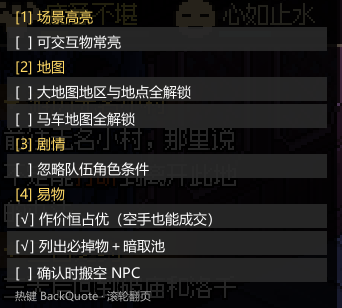
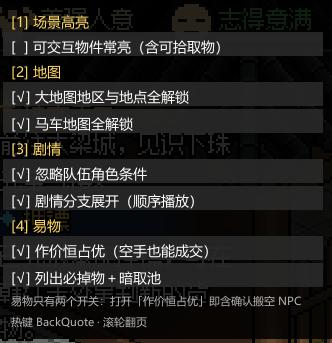
1.11.5~1.11.10：易物开关合并 + 面板表述 + 称号功能回退 + 固定名单 + 清理
- 1.11.5：易物「确认搬空」不再是独立开关，跟随「作价恒占优」
- 1.11.6/1.11.7：试做「称号·姓名」，两版均失败（显示层不读 getter；普通 NPC 会重复拼）
- 1.11.8：称号功能整体回退，名字恢复「姓+名」
- 1.11.9/1.11.10：固定名单加 R20004-6（伙伴的故事／包打听离队），Fame-6 加后撤销
- 清理：去掉逐次判定/取名的诊断日志（保留 lifecycle 日志与 StoryDiagnostics 开关）
- docs/screenshot.png 换成当前面板截图
- README：更新面板/开关说明、固定名单小节、回退记录、剧情展开通用规则

diff --git a/WulinTweaks/Plugin.cs b/WulinTweaks/Plugin.cs
@@ -12,7 +12,7 @@ namespace WulinTweaks
     public class Plugin : BasePlugin
     {
         public const string Guid = "wulin.tweaks";
-        public const string Version = "1.11.4";  // 1.11.4 易物池子副本改「合并进同类堆 + 数量记账」（不再跳过同类），搬空后自动并堆
+        public const string Version = "1.11.10";  // 1.11.10 固定名单只保留 R20004-6（Fame-6 撤销）；清掉逐次判定/取名的诊断日志
 
         internal static ManualLogSource L;
         internal static Plugin Inst;
@@ -33,10 +33,10 @@ namespace WulinTweaks
         internal static ConfigEntry<string> StoryBlacklist;
 
         // ④ 易物
-        // 全部默认关闭；面板上改动会立即写进 cfg，下次启动沿用上次状态
+        // 默认全关；面板上改动会立即写进 cfg，下次启动沿用上次状态。
+        // 「确认搬空」不是独立开关：它跟随 TradeAlwaysWin（作价恒占优）—— 打开后成交即搬空。
         internal static ConfigEntry<bool> TradeAlwaysWin;
         internal static ConfigEntry<bool> TradePools;
-        internal static ConfigEntry<bool> TradeTakeAll;
 
         // UI
         internal static ConfigEntry<string> UiToggleKey;
@@ -88,15 +88,15 @@ FlattenBlacklist = Config.Bind("3_Story", "FlattenBlacklist", "",
                 + "R10028-7=一醉方休，R10025-6=杯中明镜，R10112-2=烈酒与故事（需要时自行加上）");
 
             TradeAlwaysWin = Config.Bind("4_Trade", "AlwaysWin", false,
-                "易物时玩家方作价永远 >= NPC 方，NPC 一律接受；"
-                + "同时让玩家交易区为空也能确认成交");
+                "易物「通吃」总开关：玩家方作价永远 >= NPC 方，NPC 一律接受；"
+                + "玩家交易区为空也能确认成交；"
+                + "并且点确认成交后，把交易区残留和 NPC 背包剩下的东西一起塞进队伍背包 —— "
+                + "NPC 的东西全拿走，玩家不用付出任何东西。"
+                + "（1.11.5 起「确认搬空」跟随本开关，不再单独提供）");
             TradePools = Config.Bind("4_Trade", "Pools", false,
                 "易物 NPC 侧同时列出「击杀必掉物」与「暗取池」的内容。"
                 + "只往 NPC 背包放一份仅供显示的副本，两个池子本身一个字节都不动 —— "
                 + "不会改变暗取能偷到什么，也不会改变打死掉什么");
-            TradeTakeAll = Config.Bind("4_Trade", "TakeAllOnConfirm", false,
-                "点确认成交后，把交易区残留和 NPC 背包剩下的东西一起塞进队伍背包 —— "
-                + "NPC 的东西全拿走，玩家不用付出任何东西");
 
             UiToggleKey = Config.Bind("0_UI", "ToggleKey", "BackQuote",
                 "打开/关闭面板的热键（Unity KeyCode 名称：BackQuote=` / F9 / Insert / Home …）");

diff --git a/WulinTweaks/ModUi.cs b/WulinTweaks/ModUi.cs
@@ -126,7 +126,7 @@ namespace WulinTweaks
             fitter.verticalFit = ContentSizeFitter.FitMode.PreferredSize;
 
             Header("[1] 场景高亮");
-            Row("可交互物常亮", () => Plugin.AlwaysHighlight.Value, v =>
+            Row("可交互物件常亮（含可拾取物）", () => Plugin.AlwaysHighlight.Value, v =>
             {
                 Plugin.AlwaysHighlight.Value = v;
                 if (v) ModKit.ForceHighlightNow();
@@ -158,9 +158,8 @@ namespace WulinTweaks
                 v => Plugin.TradeAlwaysWin.Value = v);
             Row("列出必掉物＋暗取池", () => Plugin.TradePools.Value,
                 v => Plugin.TradePools.Value = v);
-            Row("确认时搬空 NPC", () => Plugin.TradeTakeAll.Value,
-                v => Plugin.TradeTakeAll.Value = v);
 
+            Footer("易物只有两个开关：打开「作价恒占优」即含确认搬空 NPC");
             Footer("热键 " + Plugin.UiToggleKey.Value + " · 滚轮翻页");
 
             Relayout();

diff --git a/WulinTweaks/TeamRule.cs b/WulinTweaks/TeamRule.cs
@@ -39,6 +39,11 @@ namespace WulinTweaks
             // （10008/10009/10005/10015），按彩蛋规则会被放宽 → 剧情提前播出。
             // 用户要求压回原版：那些角色不在队就不该演。
             "R10112-2",
+            // ---- 2026-10-23 追加（用户点名）----
+            // 伙伴的故事 / 包打听(20004)：图里对花四娘(20025)的「需要伙伴」属于「别的角色」
+            // → 按彩蛋规则必放宽；而图里有 3 个 ChangePartnerNode(state=1, partnerID=20004)
+            // = 把包打听踢出队。放宽后这段在不该播的时候播了（结缘花四娘 + 同队时"包打听离队"）。
+            "R20004-6",
         };
 
         /// <summary>

diff --git a/WulinTweaks/TradeKit.cs b/WulinTweaks/TradeKit.cs
@@ -654,12 +654,13 @@ namespace WulinTweaks
         /// <summary>
         /// ConfirmTrading 之后：把交易区残留 + NPC 背包剩余全部搬进队伍背包。
         /// 玩家交易区的东西也一并退回，等于玩家不付出任何东西。
+        /// 1.11.5 起跟随「作价恒占优」（TradeAlwaysWin），不再是独立开关。
         /// </summary>
         internal static void AfterConfirm()
         {
             try
             {
-                if (!Plugin.TradeTakeAll.Value) { CleanupCopies(); return; }
+                if (!Plugin.TradeAlwaysWin.Value) { CleanupCopies(); return; }
 
                 var inv = TeamInventory();
                 if (!Truthy(inv))

diff --git a/WulinTweaks/NativeTeamHook.cs b/WulinTweaks/NativeTeamHook.cs
@@ -164,15 +164,11 @@ namespace WulinTweaks
                 byte* p = (byte*)self;
                 int pid = *(int*)(p + OFF_PARTNER_ID_PC);
                 bool neg = *(byte*)(p + OFF_PARTNER_NEGATE_PC) != 0;
-                if (_relaxLog++ < 30)
-                    Plugin.L.LogInfo("[name] 放宽候选 pid=" + pid + " neg=" + neg);
                 if (pid <= 0 || neg) return;
                 RelaxName.MarkRelaxed(pid, TeamRule.GraphNameOf(self));
             }
             catch { }
         }
-
-        private static int _relaxLog;
 
     }
 }

diff --git a/WulinTweaks/Patch_RealName.cs b/WulinTweaks/Patch_RealName.cs
@@ -49,11 +49,7 @@ namespace WulinTweaks
                 try { real = inst.RealFullName; }
                 finally { _busy = false; }
 
-                if (!string.IsNullOrWhiteSpace(real))
-                {
-                    if (_logs++ < 20) Plugin.L.LogInfo("[name] uid=" + uid + " 显示熟悉的姓名");
-                    result = real;
-                }
+                if (!string.IsNullOrWhiteSpace(real)) result = real;
             }
             catch (Exception e)
             {

diff --git a/README.md b/README.md
@@ -16,9 +16,9 @@
 | ① | **场景高亮** | 关 | 进入场景时扫描一次，给可交互物体加描边。跳过建筑本体（房子、城墙等只显示轮廓的物件）；地面物品只点亮可拾取的（`TempID > 0`），这一条恒开、不做开关 |
 | ② | **大地图解锁** | 关 | 大地图所有地点默认可见、可直接前往；马车地图图标同样全部放开 |
 | ③ | **剧情条件放宽** | 关 | 触发 Scenario 时忽略「队伍中必须存在某角色」的判定，队伍里没有该角色也能推进剧情。**不会**临时增删队员 |
-| ④ | **剧情分支展开** | 开 | 把「某角色是否在队」的互补分支（Negate=0/1 兄弟对）由 if/else 改成**顺序播放**：先播队内有该角色的那几段，再播队内没有时的兜底，最后汇合。目前只处理 `R10049-2`（大梁城衙门铡刀那段五人讲解）—— 它只改剧情走线，不改变条件判定规则 |
-| ⑤ | **剧情期间显真名** | 跟随③ | 剧情对话期间把出场角色的名字从「陌生名」（如 `@冷峻严肃的中年人`）换成立绘/名册里的**熟悉后姓名**，只作用于当前正在播的那张剧情图；剧情收尾、换图、读档后还原 |
-| ⑥ | **易物通吃** | 关 | 三个独立开关：作价恒占优（含空手也能确认）、易物列出必掉物＋暗取池、确认时搬空 NPC。拿走的池子物品会**同步从池子原件扣掉**，暗取/摸尸不会再拿到同一件 |
+| ④ | **剧情分支展开** | 开 | 把「某角色是否在队」的互补分支（Negate=0/1 兄弟对）由 if/else 改成**顺序播放**：先播队内有该角色的那几段，再播队内没有时的兜底，最后汇合。**通用规则**（1.10.0 起不再限定某张图；跳过嵌套门对 / 无出口 / 两侧都不是单节点剧情的情形）—— 它只改剧情走线，不改变条件判定规则。接管方式是把门的 `HoldNode.CheckCondition` 整门判真（与手机端 v87 对齐） |
+| ⑤ | **剧情期间显真名** | 跟随③ | 剧情对话期间把出场角色的名字从「陌生名」（如 `@冷峻严肃的中年人`）换成**熟悉后姓名**（`洛天雄`，即模板的姓+名）。只作用于当前正在播的那张剧情图；剧情收尾、换图、读档后还原。**1.11.8 起不再带称号**（试过两版都失败，见下文「剧情期间显真名」一节的回退记录） |
+| ⑥ | **易物通吃** | 关 | 两个开关：「作价恒占优」与「列出必掉物＋暗取池」。**确认搬空 NPC 不再是独立开关**，跟随「作价恒占优」——打开它就一并生效（作价恒占优 / 空手也能确认 / 成交即搬空三件事一起）。拿走的池子物品会**同步从池子原件扣掉**，暗取/摸尸不会再拿到同一件 |
 
 「高亮」只在**进入场景时扫描一次**，不做定时刷新，避免每帧遍历对象表。
 
@@ -54,8 +54,20 @@ python tools/simulate_flatten.py --only R10049-2 --detail   # 单图：逐条列
 
 ## 剧情期间显真名
 
-对话期间把出场角色从「陌生时姓名」（`@冷峻严肃的中年人`）换成本地拼的真名 ——
+对话期间把出场角色从「陌生时姓名」（`@冷峻严肃的中年人`）换成**熟悉后姓名**（`洛天雄`）——
 落点是**角色实例的 `m_surName` / `m_givenName`**（显示层既不读 `FullName` 也不读模板）。
+
+### 「称号·姓名」试过两版，都回退（1.11.8，别再走回头路）
+
+| 版本 | 做法 | 结果 |
+|---|---|---|
+| 1.11.6 | getter 层：返回值换成 `RealFullNameWithTitle`（它确实带称号） | 日志打出了带称号的串，**画面仍是「洛天雄」** —— 显示层不看 getter 返回值 |
+| 1.11.7 | 数据层：`m_surName=""`、`m_givenName="称号·姓+名"`（称号取模板 `PersonalTitle`，走 `GameUtil.GetLocTitle`） | PC **成功**（洛天雄 → 总捕头·洛天雄）；但 ① 没有 `GivenName` 的普通 NPC（大梁城知府/城门守卫）会拼成「大梁城·知府大梁城·知府」；② 手机端字段写对了却仍显示「洛天雄」，那处 UI 三条路（字段 / 气泡 Init / TMP set_text）都不走 |
+
+结论：这条路要么改坏普通 NPC，要么手机上根本不生效，**收益不足以承担**，1.11.8 整体回退成「姓+名」。
+将来若要做，得先定位手机端那个不认字段的显示出口（疑似 `TalkMessageNode.NpcName` 节点数据）。
+
+> 顺带记下两个坑：① `GameCharacterInstance.Title` **不是称号**，返回的是「知府大梁城」「守卫大梁城」这种官职串（洛天雄是空）；② PC 的 interop 没导出 `CharacterPoolData.PersonalTitle`，只能走 `GameUtil.GetLocTitle(tpl)` 扩展方法。
 
 窗口是事件驱动的：
 
@@ -81,6 +93,29 @@ python tools/simulate_flatten.py --only R10049-2 --detail   # 单图：逐条列
 **想走柳月樱线，就在九黎部落拾取社稷之印之前，先把大梁城城门口那场「帮忙解围」做掉。**
 
 已经踩坑的话，收个临时开关关掉剧情放宽也救不回来（标记已经写进存档），只能读更早的档。
+
+---
+
+## 剧情条件放宽的「固定名单」（不放宽）
+
+规则本身是「条件是别人角色就放宽」（彩蛋思路），但有些剧情放宽后会演错，所以有两类名单：
+
+| 名单 | 位置 | 作用 |
+|---|---|---|
+| 代码内固定名单 | `TeamRule._fixed`（手机 `k_fixed_original[]`） | 这些图**一律按原版判定**，与 cfg 无关 |
+| 手动名单 | cfg `3_Story / IgnoreTeamConditionBlacklist` | 你自己加的排除项（支持 `*` 前缀） |
+
+代码内固定名单当前内容：`Fame-2`、`Guide10099-1/6/11/13/15/16/18`（师父线）、`R10112-2`（烈酒与故事），
+以及 2026-10-23 追加的：
+
+- **`R20004-6`** —— 伙伴的故事 / 包打听(20004)。图里对花四娘(20025)的「需要伙伴」属于「别的角色」，
+  按彩蛋规则必放宽；而图里有 3 个 `ChangePartnerNode(state=1, partnerID=20004)` = 把包打听踢出队。
+  放宽后这段在不该播的时候播了（表现为「与花四娘结缘后、同时带着包打听，包打听忽然离队」）。
+
+> 曾把主线「楚襄兵祸」(`Fame-6`) 也加进来，实测没有必要，1.11.10 已撤销。
+
+要再压某张图：图名就是剧情资产名（`Story/*.asset` 的文件名，例如 `R20004-6`），
+手工名单里加一行重启即可；离线查事件分组用 `事件总表.xlsx`（`StoryConfig` 表，`子事件` 列是逗号分隔的图名）。
 
 ---
 
@@ -126,20 +161,18 @@ dotnet build -c Release -p:GameDir="D:\path\to\WulinSH"
 | 大地图全解锁 | `2_WorldMap` | `UnlockAll` | `false` |
 | 马车地图解锁 | `2_WorldMap` | `UnlockCabMap` | `false` |
 | 放宽剧情角色条件 | `3_Story` | `IgnoreTeamMemberCondition` | `false` |
-| 易物作价恒占优 | `4_Trade` | `AlwaysWin` | `false` |
+| 易物作价恒占优（含确认搬空） | `4_Trade` | `AlwaysWin` | `false` |
 | 易物列出必掉物＋暗取池 | `4_Trade` | `Pools` | `false` |
-| 确认时搬空 NPC | `4_Trade` | `TakeAllOnConfirm` | `false` |
 | 剧情诊断日志 | `5_Diag` | `StoryDiagnostics` | `false` |
 
 `ToggleKey` 支持 BepInEx 的按键名（`BackQuote` / `F9` / `LeftControl` 等）。游戏内 `F8` 已被占用，故默认用反引号。
 
 面板与配置项是同一份状态：面板上点了什么，cfg 里就写什么（点击后立即 `Config.Save()`），反之亦然。
 
-三个易物开关的分工：
+两个易物开关的分工：
 
-- **`AlwaysWin`** — 同时接管两件事：`ValueOffset()` 恒 `>= 0`（NPC 必接受）、`playerTradingZone.GetTotalValue()` 为空时的 0 兜底成 1（空手也能确认）。这两道正是 `ConfirmTrading` 的内部门槛，分开没意义。
+- **`AlwaysWin`** — 易物「通吃」总开关，一个开关管三件事：`ValueOffset()` 恒 `>= 0`（NPC 必接受）、`playerTradingZone.GetTotalValue()` 为空时的 0 兜底成 1（空手也能确认）、以及成交后把交易区残留和 NPC 背包剩余一起搬进队伍背包（**确认搬空**）。前两道正是 `ConfirmTrading` 的内部门槛，第三道是同一个动作的收尾，分开没意义，所以 **1.11.5 起「确认搬空」不再是独立开关**，原来的 `4_Trade / TakeAllOnConfirm` 已移除（老 cfg 里那一行不会再被读写，留着也不影响）。
 - **`Pools`** — 只影响易物：打开后 NPC 侧额外列出「击杀必掉物」与「暗取池」的内容（池子里有的 + 模板里有但池子没填的）。**这是纯显示**：副本只写进 `npc.BackPack`，`stealBackPack` / `dropOnDeadBackPack` 一个字节都不动，所以暗取能偷到什么、打死掉什么完全不受影响。
-- **`TakeAllOnConfirm`** — 只在成交那一刻生效，把交易区残留和 NPC 背包剩余一起搬进队伍背包。
 
 `1_Highlight / ExcludeBuildings`（跳过建筑本体）默认仍为 `true`：它不是功能开关，而是高亮打开后的过滤条件，关掉会把整栋房子描边。
 
@@ -281,7 +314,7 @@ GameCharacterInstance（运行时角色实例）
 
 - 面板需**读取存档后**才能呼出（主菜单阶段 `RoamingManager` 尚未创建）
 - 剧情放宽仅覆盖 `IsJoinedTeamCondition` / `HavePartnerCondition` 两类条件节点
-- **剧情分支展开只内置了 `R10049-2` 一张图**（规格是硬编码的：5 个 `ScenarioKey` + 兜底门判据）。要推广到别的图，先看 `tools/inspect_story_pc.py`（离线读 `ModEditor.zip` 里的剧情图 YAML，能打印门梯与角色分布）
+- **剧情分支展开是通用规则**（1.10.0 起，不再只针对 `R10049-2`）：任何「同 partnerID 的互补门对」都按 `region = reach(G0)−reach(G1)−{G0,G1}` + 出口改指 G1 展开；跳过嵌套门对 / 无出口 / 两侧都不是单节点剧情的 X 类。离线预演看 `tools/simulate_flatten.py`，查单图结构看 `tools/inspect_story_pc.py`
 - 剧情期间的姓名窗口是**事件驱动**的：`StoryScenarioNode.OnActive` 开、`StoryCloseNode.OnResult` 关，另有 30 秒空闲兜底。若某段剧情不走 `StoryCloseNode`，名字会多留最多 30 秒才还原
 - 极少数剧情图上放宽会让 `Hold` 节点空转，靠 `ContinueArrange` 看门狗兜住：不再崩溃，代价是那一帧的推进被跳过
 - `HoldOnceGuard` 让每个 Hold 只通过一次；若某段剧情依赖同一 Hold 反复通过（而不是靠 `clearTimes()` 重置），会被压住，这类剧情需要单独加白名单
